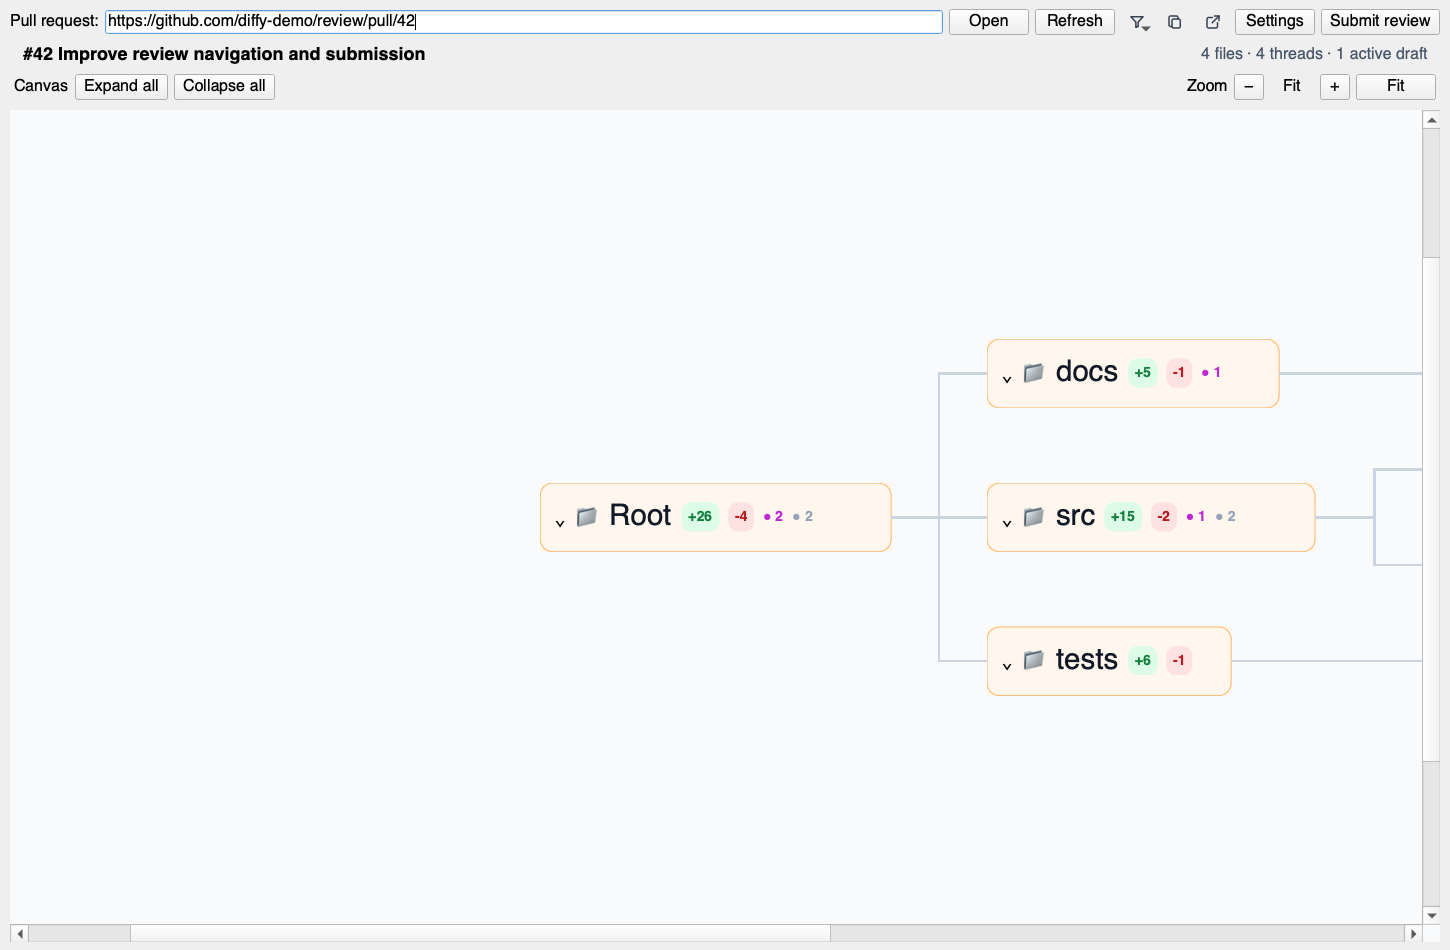
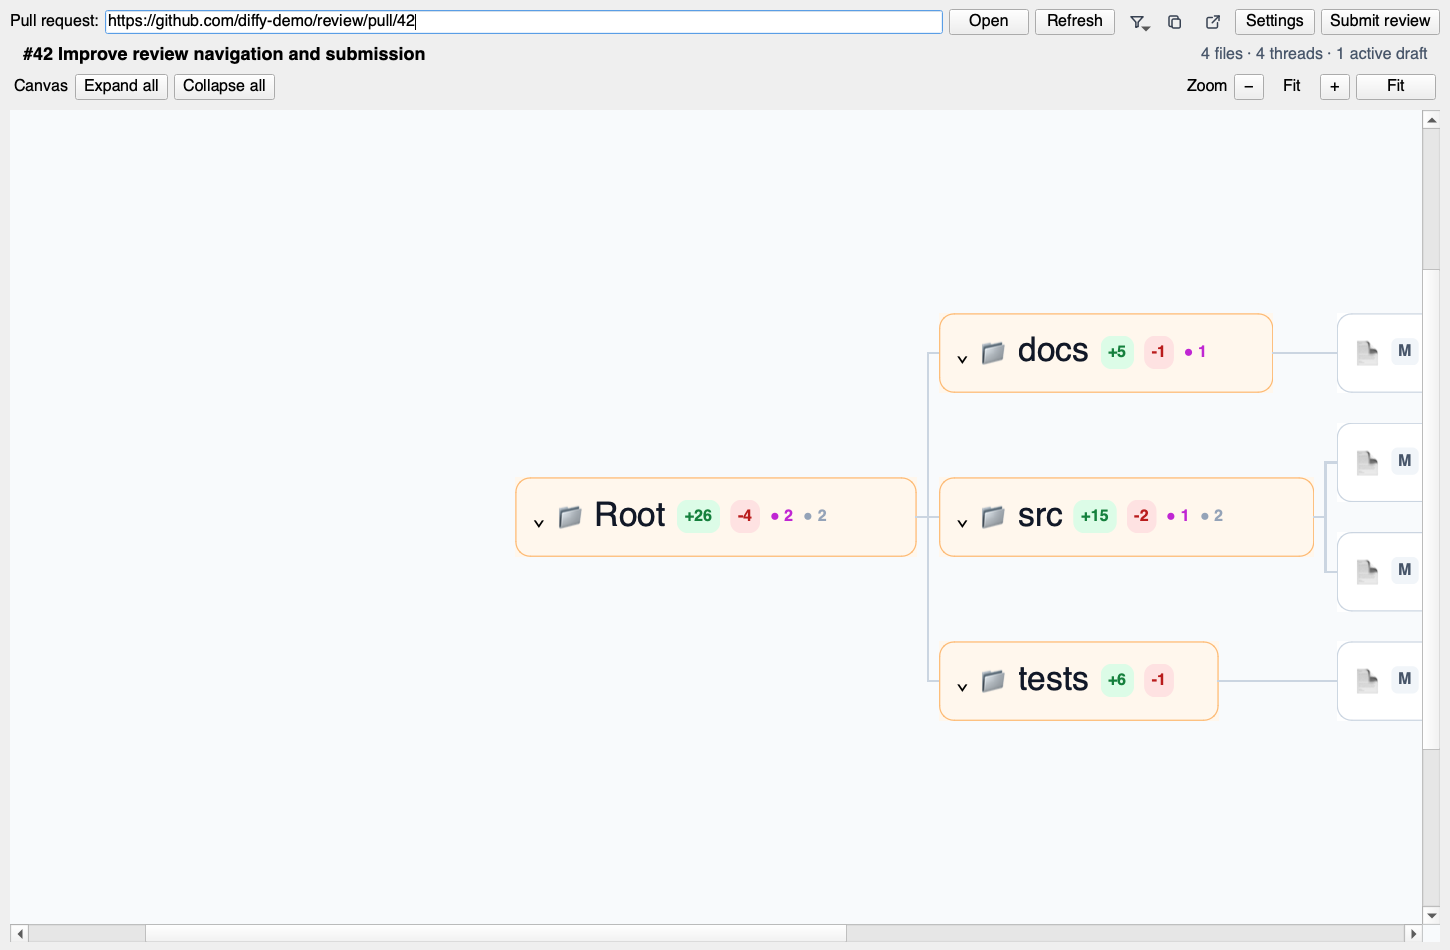
Improve Canvas fit readability

diff --git a/diffy/ui/main_window.py b/diffy/ui/main_window.py
@@ -623,30 +623,56 @@ class SpatialCanvas(QGraphicsView):
             return max(220, 28 + icon_width + name_width + status_width + sum(badges) + spacing)
 
         root_additions, root_deletions = self._change_totals(self.tree)
-        max_node_width = estimated_width("⌄  📁", "Root", None, root_additions, root_deletions, self._comment_counts_for_node(self.tree))
-        for file in self.files:
-            filename = file.path.rsplit("/", 1)[-1]
-            max_node_width = max(
-                max_node_width,
-                estimated_width("📄", filename, "M", file.additions, file.deletions, self.comment_counts.get(file.path, (0, 0))),
-            )
-        for folder in self.tree["folders"].values():
-            for name in self._folder_names(folder):
-                folder_additions, folder_deletions = self._change_totals(folder)
-                max_node_width = max(
-                    max_node_width,
-                    estimated_width("⌄  📁", name, None, folder_additions, folder_deletions, self._comment_counts_for_node(folder)),
-                )
-        column_width = max_node_width + 30
         left_margin = 30
         top_margin = 30
+        column_gap = 18
         pen = QPen(QColor("#cbd5e1"), 2)
-        max_depth = 0
 
         def child_entries(node: dict) -> list[tuple[str, object]]:
             folders = [("folder", folder) for _, folder in sorted(node["folders"].items())]
             files = [("file", file) for file in sorted(node["files"], key=lambda item: item.path)]
             return folders + files
+
+        root_entry = ("folder", {"path": "Root", "folders": self.tree["folders"], "files": self.tree["files"]})
+
+        def entry_width(entry: tuple[str, object]) -> int:
+            kind, value = entry
+            if kind == "folder":
+                folder = value
+                marker = "▸" if folder["path"] in self.collapsed_folders else "⌄"
+                additions, deletions = self._change_totals(folder)
+                return estimated_width(
+                    f"{marker}  📁",
+                    folder["path"].rsplit("/", 1)[-1],
+                    None,
+                    additions,
+                    deletions,
+                    self._comment_counts_for_node(folder),
+                )
+            file = value
+            status = {"modified": "M", "added": "A", "deleted": "D", "renamed": "R"}.get(file.status, "M")
+            return estimated_width(
+                "📄",
+                file.path.rsplit("/", 1)[-1],
+                status,
+                file.additions,
+                file.deletions,
+                self.comment_counts.get(file.path, (0, 0)),
+            )
+
+        column_widths: dict[int, int] = {0: entry_width(root_entry)}
+
+        def collect_column_widths(node: dict, depth: int) -> None:
+            for entry in child_entries(node):
+                column_widths[depth] = max(column_widths.get(depth, 220), entry_width(entry))
+                if entry[0] == "folder" and entry[1]["path"] not in self.collapsed_folders:
+                    collect_column_widths(entry[1], depth + 1)
+
+        collect_column_widths(self.tree, 1)
+        max_depth = max(column_widths)
+        column_offsets = [left_margin]
+        for depth in range(1, max_depth + 1):
+            column_offsets.append(column_offsets[-1] + column_widths[depth - 1] + column_gap)
 
         def rows_for_entry(entry: tuple[str, object]) -> int:
             if entry[0] == "file":
@@ -719,7 +745,7 @@ class SpatialCanvas(QGraphicsView):
             kind, value = entry
             max_depth = max(max_depth, depth)
             span = rows_for_entry(entry)
-            x = left_margin + depth * column_width
+            x = column_offsets[depth]
             y = top_margin + (top_row + (span - 1) / 2) * row_height
             if kind == "folder":
                 folder = value
@@ -776,7 +802,6 @@ class SpatialCanvas(QGraphicsView):
                 cursor += child_span
             return x, y, span
 
-        root_entry = ("folder", {"path": "Root", "folders": self.tree["folders"], "files": self.tree["files"]})
         root_span = rows_for_entry(root_entry)
         def render_without_root() -> None:
             root_x = left_margin
@@ -802,7 +827,8 @@ class SpatialCanvas(QGraphicsView):
                 place_entry(child, 1, cursor, (root_x, root_y, root_width))
                 cursor += child_span
         render_without_root()
-        self.scene.setSceneRect(0, 0, left_margin + (max_depth + 1) * column_width, top_margin * 2 + max(root_span, 1) * row_height)
+        scene_width = left_margin + sum(column_widths.values()) + column_gap * max_depth + 30
+        self.scene.setSceneRect(0, 0, scene_width, top_margin * 2 + max(root_span, 1) * row_height)
         self.content_scene_rect = self.scene.sceneRect()
         QTimer.singleShot(0, self._fit_tree)
 
@@ -814,7 +840,10 @@ class SpatialCanvas(QGraphicsView):
             return
         self.setSceneRect(rect)
         self.fitInView(rect.adjusted(-16, -16, 16, 16), Qt.AspectRatioMode.KeepAspectRatio)
-        self.fit_scale = max(self.transform().m11(), 0.001)
+        self.fit_scale = max(self.transform().m11(), 0.75)
+        self.resetTransform()
+        self.scale(self.fit_scale, self.fit_scale)
+        self.centerOn(rect.center())
         horizontal_margin = self.viewport().width() / (2 * self.fit_scale)
         vertical_margin = self.viewport().height() / (2 * self.fit_scale)
         self.setSceneRect(rect.adjusted(-horizontal_margin, -vertical_margin, horizontal_margin, vertical_margin))
